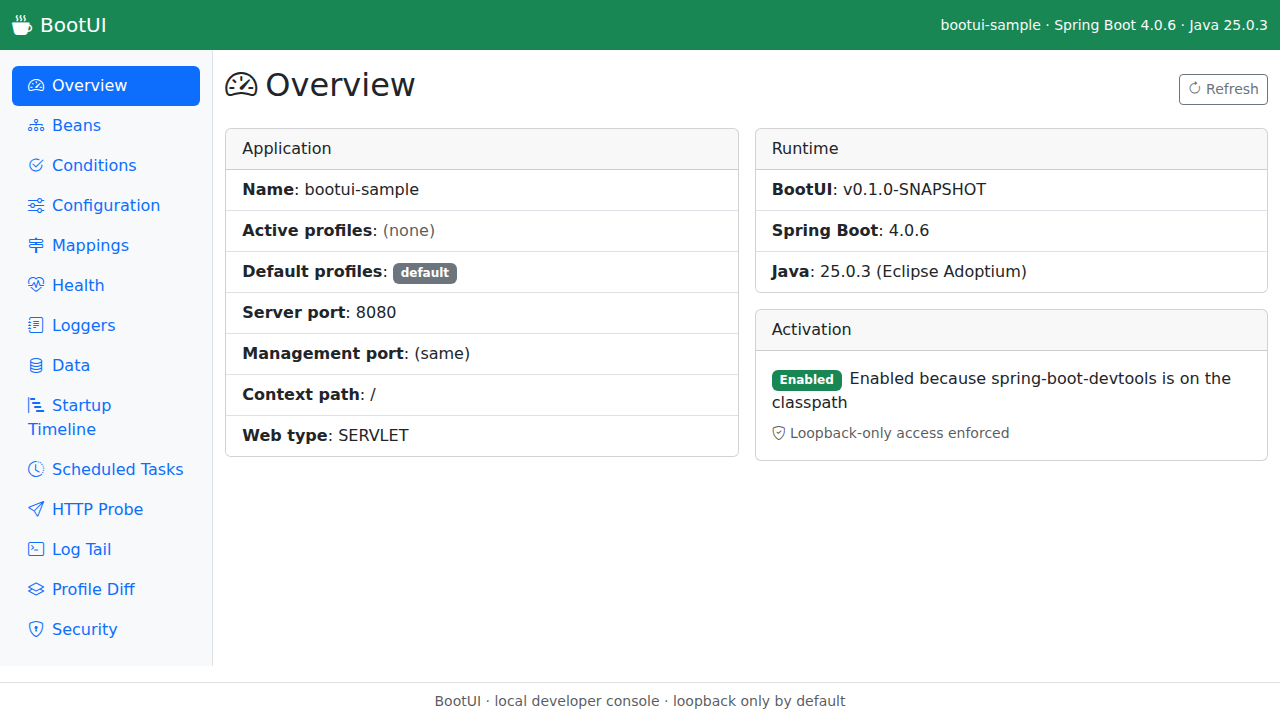
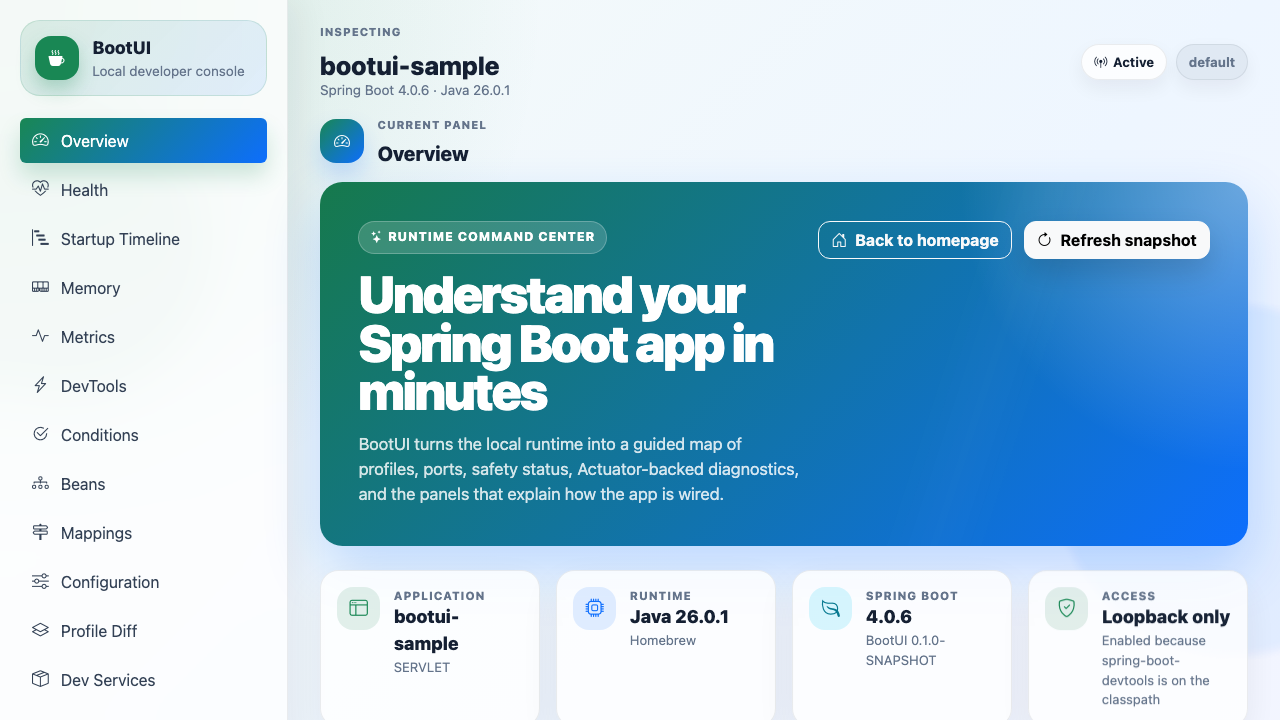
Update docs and e2e coverage
Add focused Playwright coverage for the DevTools and Dev Services panels, refresh README/spec/plan documentation, update screenshots, and make the sample PostgreSQL schema explicit for reliable e2e runs.

diff --git a/bootui-sample-app/e2e/tests/dev-services.spec.js b/bootui-sample-app/e2e/tests/dev-services.spec.js
@@ -1,0 +1,95 @@
+// @ts-check
+import { test, expect } from './fixtures.js'
+
+const devServicesReport = {
+  dockerComposePresent: true,
+  testcontainersPresent: true,
+  snapshotTimestamp: Date.now(),
+  total: 2,
+  services: [
+    {
+      id: 'compose:postgres',
+      name: 'postgres',
+      type: 'PostgreSQL',
+      source: 'Docker Compose',
+      image: 'postgres:18',
+      status: 'READY_AT_STARTUP',
+      host: 'localhost',
+      ports: [{ containerPort: 5432, hostPort: 15432, protocol: 'tcp' }],
+      connectionDetails: { snapshot: 'Captured when Spring Boot reported Docker Compose services ready' },
+      restartable: false,
+      logsAvailable: false,
+      note: 'Docker Compose status is a startup snapshot; Spring Boot does not expose live per-service restart.'
+    },
+    {
+      id: 'bean:redisContainer',
+      name: 'redis',
+      type: 'Redis',
+      source: 'Testcontainers',
+      image: 'redis:7',
+      status: 'RUNNING',
+      host: 'localhost',
+      ports: [{ containerPort: 6379, hostPort: 16379, protocol: 'tcp' }],
+      connectionDetails: { containerId: 'abc123', reuse: false },
+      restartable: false,
+      logsAvailable: true,
+      note: 'Restart disabled by default; set bootui.dev-services.restart-enabled=true to allow it.'
+    }
+  ]
+}
+
+test.describe('Dev Services view', () => {
+
+  test('renders the live Dev Services report or the empty state', async ({ openView, page }) => {
+    await openView('dev-services', 'Dev Services')
+
+    await expect(page.locator('.alert-info')).toContainText('Restart is intentionally disabled by default')
+
+    const emptyState = page.locator('.alert-secondary', {
+      hasText: 'No Docker Compose, Testcontainers, or Spring Boot service connection beans were detected.'
+    })
+    const tableRows = page.locator('tbody tr')
+    await expect.poll(async () => (await emptyState.count()) + (await tableRows.count())).toBeGreaterThan(0)
+  })
+
+  test('filters services, opens details, and keeps restart disabled by default', async ({ page }) => {
+    await page.route(url => url.pathname === '/bootui/api/dev-services', async route => {
+      await route.fulfill({
+        contentType: 'application/json',
+        body: JSON.stringify(devServicesReport)
+      })
+    })
+    await page.route(url => url.pathname === '/bootui/api/dev-services/bean%3AredisContainer/logs', async route => {
+      await route.fulfill({
+        contentType: 'application/json',
+        body: JSON.stringify({
+          id: 'bean:redisContainer',
+          logs: 'Redis container started\nReady to accept connections',
+          truncated: false,
+          maxBytes: 65536
+        })
+      })
+    })
+
+    await page.goto('/bootui/#/dev-services')
+    await expect(page.locator('main h2').filter({ hasText: /^Dev Services/ }).first()).toBeVisible()
+    await expect(page.getByText('2 / 2 services')).toBeVisible()
+
+    await page.getByPlaceholder('Filter by name, type, source, or image').fill('redis')
+    await expect(page.getByText('1 / 2 services')).toBeVisible()
+
+    const redisRow = page.locator('tbody tr', { hasText: 'redis' })
+    await expect(redisRow).toBeVisible()
+    await expect(redisRow.locator('.badge', { hasText: 'Testcontainers' })).toBeVisible()
+    await expect(redisRow.getByRole('button', { name: 'Restart' })).toBeDisabled()
+
+    await redisRow.getByRole('button', { name: 'Details' }).click()
+    const details = page.locator('.card', { hasText: 'redis' }).last()
+    await expect(details).toContainText('Connection details')
+    await expect(details).toContainText('containerId')
+
+    await redisRow.getByRole('button', { name: 'Logs' }).click()
+    await expect(details.locator('pre')).toContainText('Ready to accept connections')
+  })
+})
+

diff --git a/bootui-sample-app/e2e/tests/devtools.spec.js b/bootui-sample-app/e2e/tests/devtools.spec.js
@@ -1,0 +1,55 @@
+// @ts-check
+import { test, expect } from './fixtures.js'
+
+test.describe('DevTools view', () => {
+
+  test('renders LiveReload and restart status cards without triggering restart', async ({ openView, page }) => {
+    await openView('devtools', 'DevTools')
+
+    const liveReloadCard = page.locator('.card', { hasText: 'Trigger LiveReload' })
+    const restartCard = page.locator('.card', { hasText: 'Restart application' })
+
+    await expect(liveReloadCard).toBeVisible()
+    await expect(restartCard).toBeVisible()
+    await expect(liveReloadCard.locator('.badge')).toContainText(/Available|Unavailable/)
+    await expect(restartCard.locator('.badge')).toContainText(/Available|Unavailable|Pending/)
+    await expect(page.getByRole('button', { name: /Restart app/ })).toBeVisible()
+    await expect(page.locator('.alert-info')).toContainText('Restart interrupts the current JVM context')
+  })
+
+  test('triggering LiveReload shows action feedback and keeps restart guarded', async ({ page }) => {
+    await page.route(url => url.pathname === '/bootui/api/devtools', async route => {
+      await route.fulfill({
+        contentType: 'application/json',
+        body: JSON.stringify({
+          restartAvailable: false,
+          restartUnavailableReason: 'Spring Boot DevTools Restarter is not initialized.',
+          restartPending: false,
+          liveReloadAvailable: true,
+          liveReloadPort: 35729,
+          liveReloadUnavailableReason: null
+        })
+      })
+    })
+    await page.route(url => url.pathname === '/bootui/api/devtools/livereload', async route => {
+      await route.fulfill({
+        contentType: 'application/json',
+        body: JSON.stringify({
+          action: 'livereload',
+          status: 'triggered',
+          message: 'LiveReload notification sent to connected browsers.'
+        })
+      })
+    })
+
+    await page.goto('/bootui/#/devtools')
+    await expect(page.locator('main h2').filter({ hasText: /^DevTools/ }).first()).toBeVisible()
+
+    await expect(page.getByText('LiveReload port:')).toBeVisible()
+    await expect(page.getByRole('button', { name: /Restart app/ })).toBeDisabled()
+
+    await page.getByRole('button', { name: /Trigger LiveReload/ }).click()
+    await expect(page.locator('.alert-success')).toContainText('LiveReload notification sent')
+  })
+})
+

diff --git a/docs/PLAN.md b/docs/PLAN.md
@@ -72,7 +72,7 @@ The project has moved beyond the original skeleton and the initial MVP panel set
   - Dev Services
 - Maven-integrated frontend build that downloads Node/npm, builds the Vite app, and packages assets into `META-INF/resources/bootui`.
 - Backend tests covering activation, auto-configuration activation cases, localhost filtering, config override persistence, override property sources, override file storage, environment post-processing, config metadata loading, selected web controllers, missing Actuator behavior, and sample-app integration.
-- Playwright end-to-end tests in `bootui-sample-app/e2e` covering the sample API and every visible BootUI route.
+- Playwright end-to-end tests in `bootui-sample-app/e2e` covering the sample API, every visible BootUI route, and focused flows for the current panel set, including Metrics, DevTools, and Dev Services.
 
 ## 3. Milestone status
 
@@ -80,25 +80,25 @@ The project has moved beyond the original skeleton and the initial MVP panel set
 |---|---|---|
 | 0. Project foundation | Done | Multi-module build, Java/Spring baseline, sample app, docs, and CI exist. |
 | 1. Auto-configuration and safety | Implemented, partially tested | Activation, auto-configuration, localhost filter, banner, and overview API exist. Activation and localhost behavior have focused tests. |
-| 2. Static UI shell | Implemented, needs smoke validation | Vue shell, Maven frontend build, classpath packaging, and routes exist. |
-| 3. Actuator bridge | Implemented, needs controller coverage | Stable BootUI DTO endpoints exist for the original MVP panels; missing-Actuator behavior needs broader explicit tests. |
-| 4. Beans and Conditions panels | Implemented, needs product validation | API and UI panels exist; sample-app usefulness and large-app edge cases should be checked. |
-| 5. Config, Mappings, Health, and Loggers | Implemented, partially tested | Runtime config overrides, secret masking, mappings, health, and logger controls exist. Config override plumbing has tests; web endpoint coverage still needs expansion. |
-| 6. Post-MVP diagnostic panels | Implemented, needs hardening | Startup, Memory, Spring Data, Scheduled Tasks, HTTP Probe, Log Tail, Profile Diff, Security, Metrics, DevTools, and Dev Services panels have API/UI slices. They need focused tests, safety review, and documentation. |
-| 7. Documentation and release hardening | Not complete | Installation, activation, safety, troubleshooting, release notes, and sample walkthrough need to be finished and reconciled with current behavior. |
+| 2. Static UI shell | Implemented and smoke-tested | Vue shell, Maven frontend build, classpath packaging, and routes exist; Playwright verifies sidebar navigation across every visible section. |
+| 3. Actuator bridge | Implemented, needs deeper backend coverage | Stable BootUI DTO endpoints exist for the original MVP panels; missing-Actuator behavior needs broader explicit tests. |
+| 4. Beans and Conditions panels | Implemented and covered by sample e2e | API and UI panels exist; large-app edge cases remain release-hardening work. |
+| 5. Config, Mappings, Health, and Loggers | Implemented and covered by sample e2e | Runtime config overrides, secret masking, mappings, health, and logger controls exist. Config override plumbing has focused backend tests. |
+| 6. Post-MVP diagnostic panels | Implemented and covered by sample e2e | Startup, Memory, Spring Data, Scheduled Tasks, HTTP Probe, Log Tail, Profile Diff, Security, Metrics, DevTools, and Dev Services panels have API/UI slices plus route-level and focused Playwright coverage. Backend edge-case tests and safety review remain. |
+| 7. Documentation and release hardening | In progress | Installation, activation, safety, troubleshooting, release notes, screenshots, and sample walkthrough need to stay reconciled with current behavior. |
 
 ## 4. What still needs to be done
 
 ### 4.1 Expand backend tests
 
-Existing focused tests cover several core safety and config paths. Remaining test work should prioritize browser-facing behavior and newer panels:
+Existing focused tests cover several core safety and config paths, and the sample-app Playwright suite covers every visible browser route. Remaining backend test work should prioritize edge cases that are hard to exercise reliably from a browser:
 
 1. `BootUiProperties` binding defaults for all public properties, including `expose-values`, `overrides-file`, and endpoint timeout.
 2. Activation rules not yet covered explicitly:
    - devtools-based activation.
    - custom disabled profiles.
    - invalid `bootui.enabled` values failing closed.
-3. Controller mappings and DTO serialization for every `/bootui/api/**` endpoint.
+3. Controller mappings and DTO serialization for every `/bootui/api/**` endpoint, especially newer DevTools and Dev Services endpoints.
 4. Missing or unavailable Actuator endpoints returning stable empty DTOs.
 5. Config controller behavior:
    - create, update, delete through HTTP.
@@ -107,7 +107,7 @@ Existing focused tests cover several core safety and config paths. Remaining tes
    - restart-warning messages.
 6. Logger level mutation and clearing through HTTP.
 7. Secret masking for all browser-visible property names and values.
-8. Newer panel controllers:
+8. Newer panel controller edge cases:
    - Spring Data repository list/detail, including no Spring Data and no repositories states.
    - Scheduled task reporting when scheduling infrastructure is present or absent.
    - HTTP probe method/path normalization, loopback-only target construction, header filtering, timeout/error responses, and unsafe-body handling.
@@ -115,6 +115,8 @@ Existing focused tests cover several core safety and config paths. Remaining tes
    - Profile diff source attribution and masking.
    - Spring Security chain listing, best-effort explain behavior, classpath gating, and credential non-disclosure.
    - Micrometer metrics browsing, tag filtering, and live value shaping.
+   - DevTools unavailable states, confirmation-required restart API behavior, and LiveReload action mapping.
+   - Dev Services service discovery, secret sanitization, bounded logs, disabled-by-default restart behavior, and restart-enabled opt-in behavior.
    - JVM memory report values, JVM argument disclosure review, and suggested JVM option generation.
 
 ### 4.2 Finish UI and product parity checks
@@ -140,7 +142,7 @@ Validate every visible route against the sample app:
 17. Profile Diff.
 18. Security.
 
-The plan no longer treats Startup, Memory, Spring Data, HTTP Probe, Profile Diff, Log Tail, Scheduled Tasks, Security, Metrics, DevTools, or Dev Services as future-only ideas: they are implemented surfaces and should either be hardened for the next alpha or explicitly hidden/marked experimental before release.
+The plan no longer treats Startup, Memory, Spring Data, HTTP Probe, Profile Diff, Log Tail, Scheduled Tasks, Security, Metrics, DevTools, or Dev Services as future-only ideas: they are implemented surfaces with sample-app Playwright coverage and should either be hardened for the next alpha or explicitly marked experimental before release.
 
 ### 4.3 Refresh user-facing documentation
 
@@ -153,7 +155,7 @@ Before the first alpha, document:
 5. Secret masking and value exposure behavior.
 6. Runtime configuration override behavior, persistence to `.bootui/application-bootui.properties`, and restart/rebind caveats.
 7. Actuator requirements and degraded behavior when endpoints are unavailable.
-8. Panel-by-panel feature guide for every visible route, including the JVM memory panel and its suggested JVM options.
+8. Panel-by-panel feature guide for every visible route, including Metrics, DevTools, Dev Services, and the JVM memory panel with its suggested JVM options.
 9. Troubleshooting.
 10. Sample app walkthrough.
 11. Release notes.

diff --git a/docs/SPECIFICATION.md b/docs/SPECIFICATION.md
@@ -553,8 +553,8 @@ Purpose: answer "Which local backing services are connected?"
 Data sources:
 
 - Spring Boot service connection metadata when available.
-- Docker Compose integration state when available.
-- Health indicators.
+- Spring Boot Docker Compose startup service snapshot when available.
+- Testcontainers beans that are present in the application context.
 
 Features:
 
@@ -571,8 +571,7 @@ Features:
 - Show source:
   - Docker Compose.
   - Testcontainers.
-  - manual configuration.
-- Link to related health contributor.
+  - connection details.
 - Show sanitized connection details.
 - Show bounded logs when a bean-backed Testcontainers service exposes them.
 - Show a restart action for bean-backed services only when explicitly enabled with
@@ -730,13 +729,18 @@ Initial endpoints:
 | `/bootui/api/startup` | GET | Startup timeline |
 | `/bootui/api/metrics` | GET | Browseable Micrometer meter list |
 | `/bootui/api/metrics/detail` | GET | Micrometer meter detail and live measurements |
+| `/bootui/api/devtools` | GET | Spring Boot DevTools status |
+| `/bootui/api/devtools/livereload` | POST | Trigger a DevTools LiveReload notification when available |
+| `/bootui/api/devtools/restart` | POST | Schedule a DevTools restart after explicit confirmation |
 | `/bootui/api/memory` | GET | JVM memory report |
 | `/bootui/api/scheduled` | GET | Scheduled tasks |
 | `/bootui/api/probe` | POST | Local HTTP probe |
 | `/bootui/api/logs/recent` | GET | Recent log lines |
 | `/bootui/api/logs/stream` | GET | Log stream over Server-Sent Events |
 | `/bootui/api/profiles` | GET | Profile-specific property sources |
-| `/bootui/api/services` | GET | Local service connections |
+| `/bootui/api/dev-services` | GET | Docker Compose, Testcontainers, and service connection entries |
+| `/bootui/api/dev-services/{id}/logs` | GET | Bounded log tail for a bean-backed service when available |
+| `/bootui/api/dev-services/{id}/restart` | POST | Restart a bean-backed service only when explicitly enabled |
 | `/bootui/api/data/repositories` | GET | Detected Spring Data repositories (summary) |
 | `/bootui/api/data/repositories/{name}` | GET | Spring Data repository detail with query methods |
 | `/bootui/api/security` | GET | Spring Security filter chain report |
@@ -767,6 +771,8 @@ Initial properties:
 | `bootui.disabled-profiles` | `prod,production` | Profiles that disable BootUI unless `bootui.enabled=ON`. |
 | `bootui.overrides-file` | `.bootui/application-bootui.properties` | File used to persist local runtime configuration overrides. |
 | `bootui.endpoint-timeout` | `5s` | Timeout for endpoint-related calls. |
+| `bootui.dev-services.restart-enabled` | `false` | Enables restart controls for bean-backed Testcontainers services. |
+| `bootui.dev-services.log-tail-bytes` | `65536` | Maximum bytes returned by one Dev Services log request. |
 
 ### 6.6 Security model
 
@@ -812,6 +818,9 @@ Top-level tabs:
 - Data.
 - Startup Timeline.
 - Memory.
+- Metrics.
+- DevTools.
+- Dev Services.
 - Scheduled Tasks.
 - HTTP Probe.
 - Log Tail.
@@ -898,7 +907,7 @@ Future compatibility:
 BootUI v0.1 is complete when:
 
 - A sample Spring Boot app can add the starter and open `/bootui`.
-- The UI shows Overview, Beans, Conditions, Configuration, Mappings, Health, Loggers, Startup Timeline, Memory, Data, Scheduled Tasks, HTTP Probe, Log Tail, Profile Diff, and Security.
+- The UI shows Overview, Beans, Conditions, Configuration, Mappings, Health, Loggers, Startup Timeline, Memory, Metrics, DevTools, Dev Services, Data, Scheduled Tasks, HTTP Probe, Log Tail, Profile Diff, and Security.
 - Secret-like values are masked.
 - BootUI is disabled by default outside local/dev contexts.
 - Tests verify activation and safety behavior.

diff --git a/README.md b/README.md
@@ -22,12 +22,19 @@ It is designed for local development (not production) and helps you quickly insp
 - live log tail
 - profile-specific configuration
 - Spring Security filter chains and endpoint rules
+- Micrometer metrics
+- DevTools LiveReload / restart status
+- local development services from Docker Compose, Testcontainers, and service connection metadata
 
 BootUI is served by the host application at `/bootui/` and uses internal `/bootui/api/**` endpoints. The browser UI is packaged into the starter; consumers do not need Node.js or npm.
 
-## Screenshot
+## Screenshots
 
-![BootUI overview](https://github.com/user-attachments/assets/065013d1-73df-46a0-914c-0a5c88127995)
+![BootUI overview](docs/images/bootui-overview.png)
+
+![BootUI mappings](docs/images/bootui-mappings.png)
+
+![BootUI startup timeline](docs/images/bootui-startup.png)
 
 ## Setup (use in your own Spring Boot app)
 
@@ -112,6 +119,8 @@ Common properties:
 | `bootui.allow-non-localhost` | `false` | Explicit opt-out of loopback-only protection. |
 | `bootui.expose-values` | `MASKED` | `MASKED`, `METADATA_ONLY`, or `FULL`. |
 | `bootui.overrides-file` | `.bootui/application-bootui.properties` | Runtime override persistence file. |
+| `bootui.dev-services.restart-enabled` | `false` | Enables restart controls for bean-backed Testcontainers services. Disabled by default. |
+| `bootui.dev-services.log-tail-bytes` | `65536` | Maximum bytes returned by one Dev Services log request. |
 
 ## Panels
 
@@ -129,6 +138,9 @@ Current visible panels:
 | Data | Spring Data repositories and query methods. |
 | Startup Timeline | Startup steps from Actuator startup data. |
 | Memory | JVM heap/non-heap usage and suggested JVM options. |
+| Metrics | Micrometer meter browser, measurements, tags, and live local graph. |
+| DevTools | Spring Boot DevTools LiveReload and restart controls when available. |
+| Dev Services | Docker Compose snapshots, Testcontainers beans, and service connection metadata. |
 | Scheduled Tasks | Registered scheduled tasks. |
 | HTTP Probe | Local-only request probe against the running app. |
 | Log Tail | Recent and streaming application logs. |

diff --git a/bootui-sample-app/e2e/README.md b/bootui-sample-app/e2e/README.md
@@ -29,6 +29,8 @@ flow) exposed by the sample app:
 | `security.spec.js`         | Filter chains list `/api/secure`, explain endpoint returns a match                     |
 | `memory.spec.js`           | Heap / non-heap cards render, JVM options copy button                                  |
 | `metrics.spec.js`          | Micrometer meter browser, live graph, measurements, and type filtering                 |
+| `devtools.spec.js`         | DevTools LiveReload / restart status cards and guarded action feedback                 |
+| `dev-services.spec.js`     | Dev Services snapshot, filtering, details, log viewing, and disabled restart controls  |
 | `sample-api.spec.js`       | Sample REST API (`/api/hello`, `/api/secure`, `/api/sample/hello`, `/api/sample/products`) and basic-auth on `/admin` |
 
 ## Prerequisites